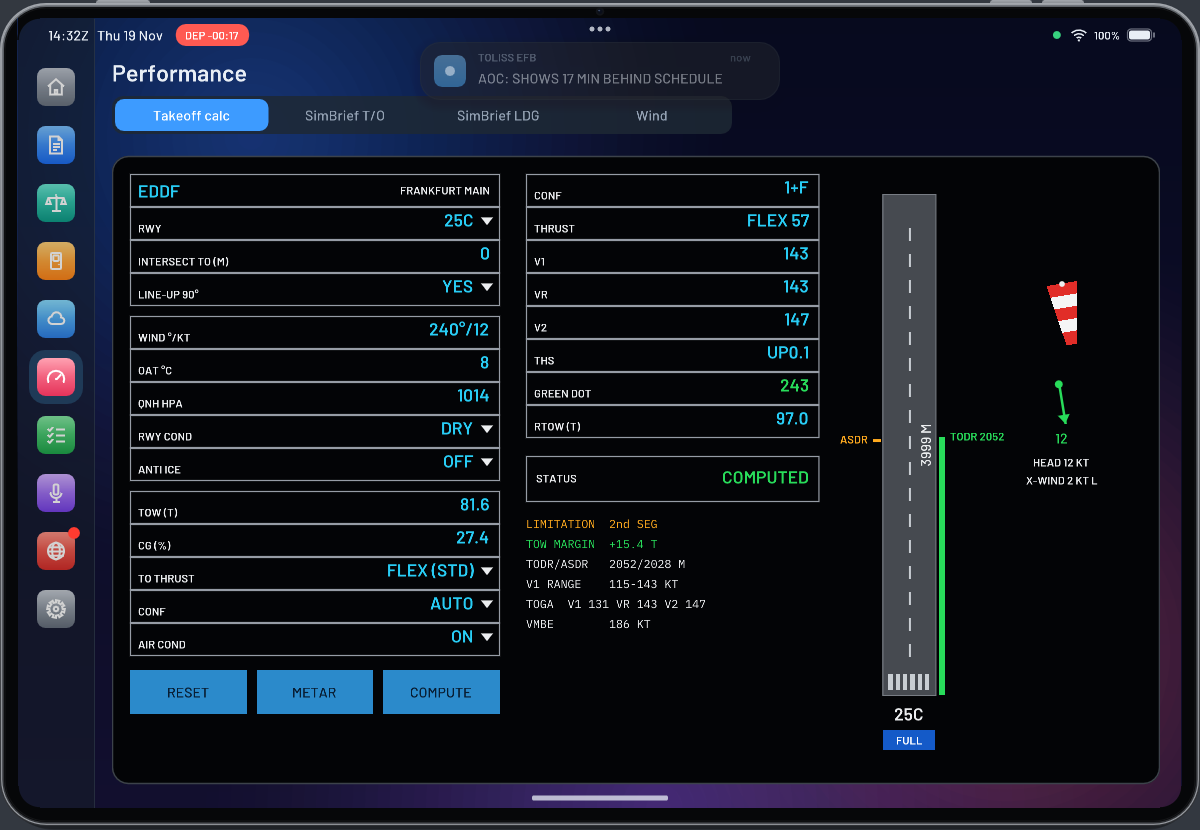
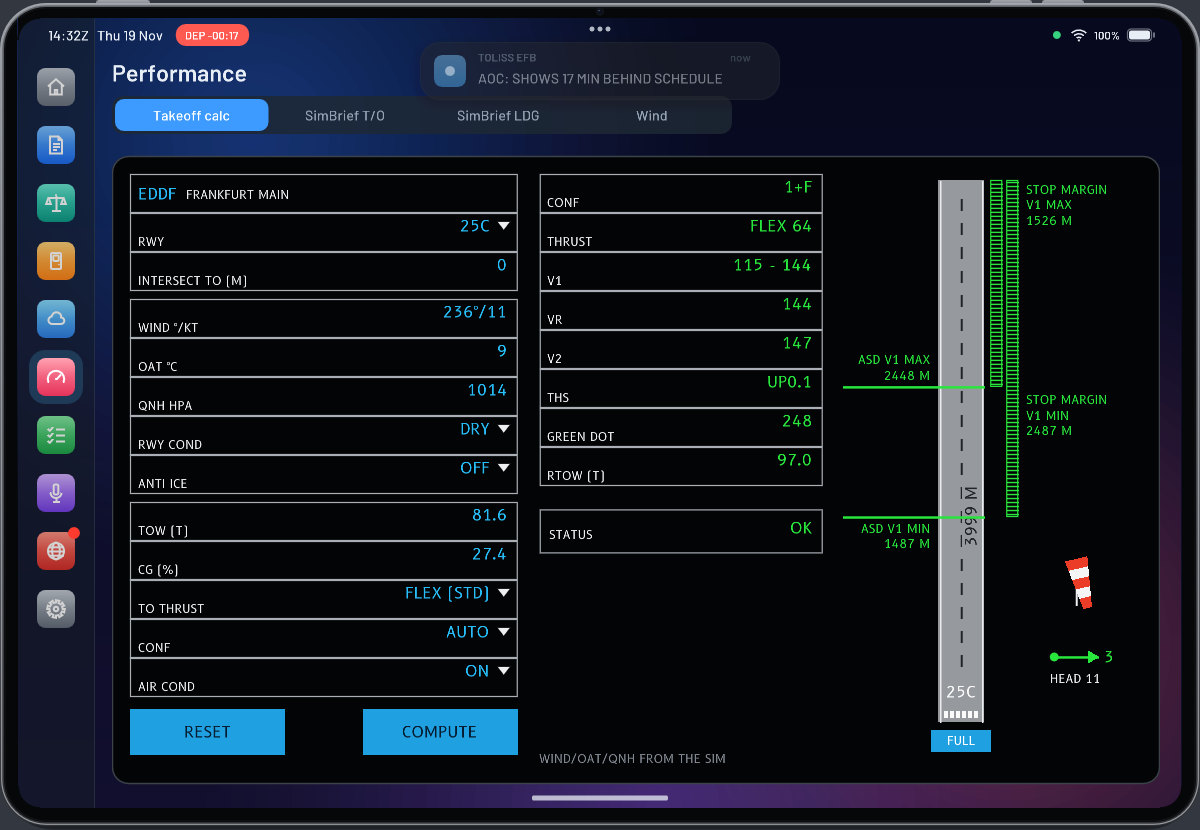
ToLiSS EFB v0.7.2

diff --git a/README.md b/README.md
@@ -102,20 +102,28 @@ The real tool Airbus pilots use (FlySmart with Airbus / PEP) runs on Airbus's ce
 performance database, which is licensed to airlines and not publicly available. This calculator
 uses the same inputs and gives the same outputs, but computes them with a physics model:
 
+* **Looks and works like the calculator in the ToLiSS tablet:** the same rows in the same order, labels
+  low on the left and values high on the right in the Airbus cockpit font (B612), cyan inputs and green
+  results, RESET and COMPUTE.
 * **Inputs:** airport and runway from **X-Plane's own airport database** (`apt.dat`: real lengths
-  and true headings), dry/wet, wind, OAT, QNH (one tap fills these from the METAR), takeoff weight
-  (from the aircraft or the plan), CG, flaps (OPT / 1+F / 2 / 3), FLEX/TOGA, anti-ice, packs and slope.
+  and true headings), dry/wet, wind, OAT and QNH (filled in by themselves: the sim's own weather at the
+  aircraft when you're at the airport, like the ToLiSS calculator, otherwise the METAR), takeoff weight
+  and CG (they follow the aircraft while it's loaded, until you compute or type your own), flaps
+  (AUTO / 1+F / 2 / 3), FLEX/TOGA, anti-ice and air conditioning.
 * **Model:** integrates the ground run (thrust lapse with speed and temperature, aerodynamic drag,
   rolling friction, slope) for all engines and one engine out. From that it gets the takeoff
   distance (×1.15 for all engines; 35 ft screen, 15 ft wet), accelerate-stop with 2 s at V1, the
   balanced V1 and the one-engine-out second-segment climb (2.4 % twin / 3.0 % quad). Wind is
   factored 50 % headwind / 150 % tailwind. V2 = 1.13 VS1g, with VMCG/VMCA limits.
-* **Outputs:** the highest legal **FLEX** (max 25 % thrust reduction), V1/VR/V2, THS for the CG,
-  required vs. available distances, wind components, what limits the result, and **OPT CONF**, which
-  picks the flap setting that allows the most FLEX. If no takeoff is legal, it says why and gives
-  the maximum TOW.
+* **Outputs:** CONF (AUTO picks the flap setting that allows the most FLEX), the highest legal
+  **FLEX** (max 25 % thrust reduction), the **V1 range** (lowest to highest legal V1), VR, V2, THS for
+  the CG, GREEN DOT and RTOW. The runway picture shows the accelerate-stop distance at the lowest and
+  highest V1, the runway left over after each stop (STOP MARGIN), the windsock and the crosswind. If no
+  takeoff is legal, it says why and gives the maximum TOW.
 
-Results land close to typical published numbers, but they are **estimates, not certified data**.
+The A320 numbers are matched to the ToLiSS calculator: for the same airport, weight and weather
+(OEGN runway 15, 60.2 t, 32 °C, 227°/11 kt) both give CONF 1+F, FLEX 68, V1 114-138, VR 138, V2 140,
+THS UP0.7 and GREEN DOT 205. They are still **estimates, not certified data**.
 Always compare them with the ToLiSS MCDU PERF TAKE OFF page.
 
 ## ⚠ First flight: verify the datarefs
@@ -154,4 +162,4 @@ aircraft and the plugin's recent log (your folder names removed). You can also
 ## Licences
 
 ToLiSS EFB: © 2026 Abdulkareem Samman (see `LICENSE`). It includes Dear ImGui (MIT), nlohmann/json (MIT), and the
-Barlow and IBM Plex Mono fonts (SIL Open Font License 1.1).
+Barlow, IBM Plex Mono and B612 fonts (SIL Open Font License 1.1).

diff --git a/CHANGELOG.md b/CHANGELOG.md
@@ -3,6 +3,12 @@
 Each version has a one-line summary (used for the Discord announcements and the release list)
 followed by the details.
 
+## 0.7.2 - 2026-11-21 - Takeoff calculator like the ToLiSS one
+- Same layout as the calculator in the ToLiSS tablet, in the Airbus cockpit font; values and labels stay in their own rows on the 3D cockpit tablet
+- Same numbers as the ToLiSS calculator for the A320: CONF, FLEX, V1 range, VR, V2, THS and GREEN DOT
+- Runway picture with the accelerate-stop distances and stop margins at V1 MIN and V1 MAX
+- Wind, OAT and QNH from the sim's own weather at the aircraft; TOW and CG follow the aircraft until you compute
+
 ## 0.7.1 - 2026-11-21 - Downloads move to toliss-efb-releases
 - Downloads, updates and bug reports now live at github.com/abdulkareem140/toliss-efb-releases
 - SkunkCrafts Updater follows the new place by itself after this update
